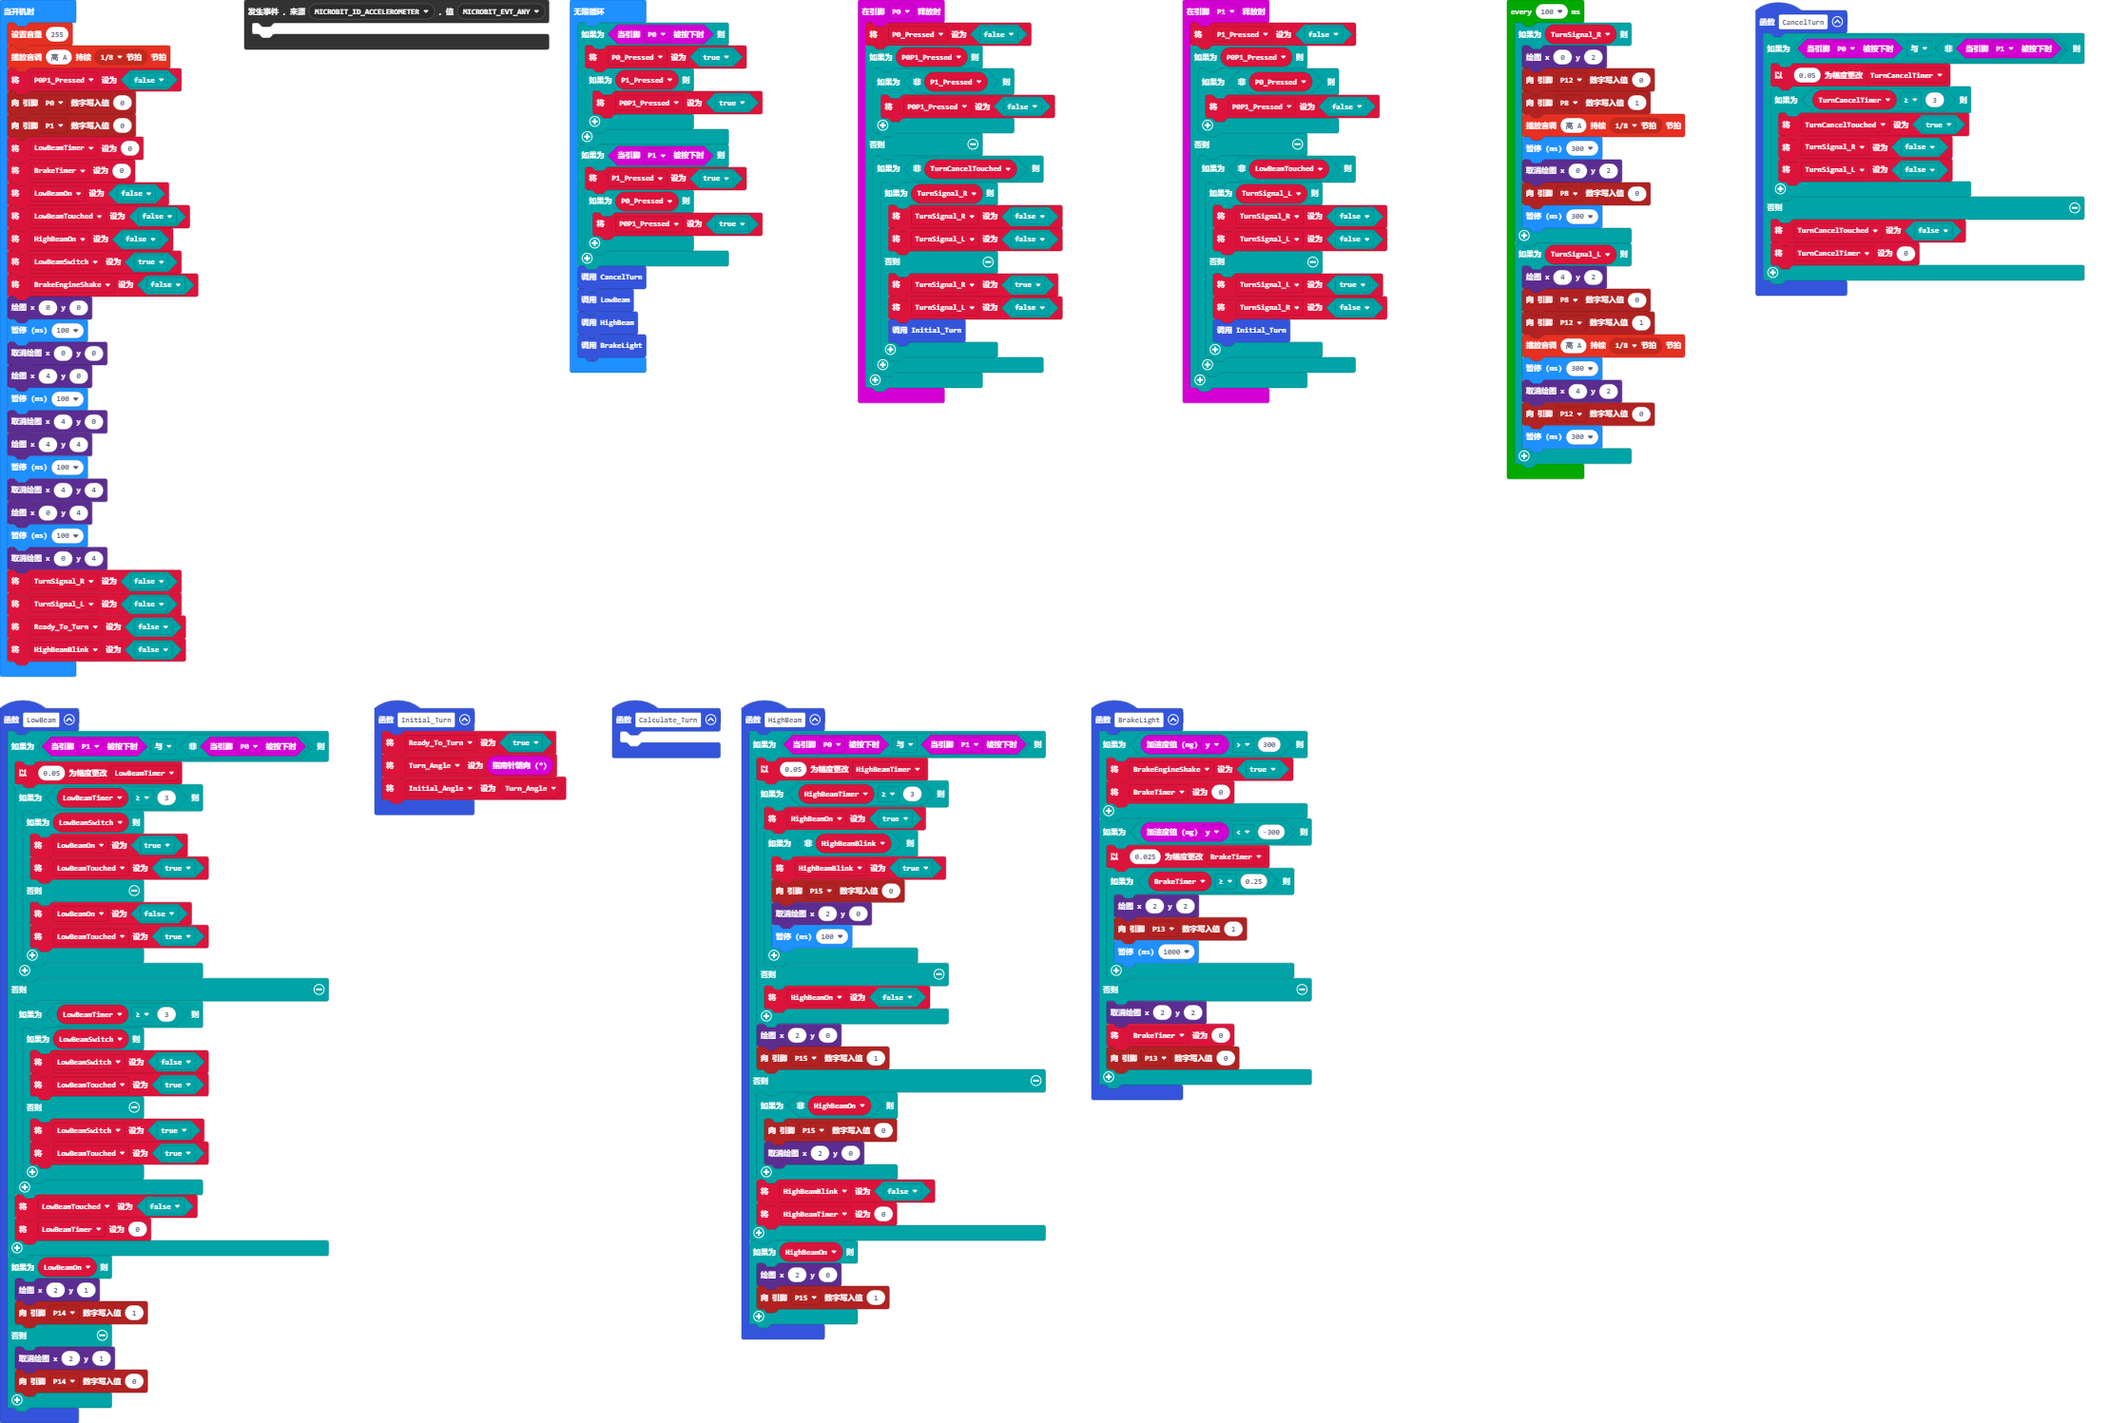
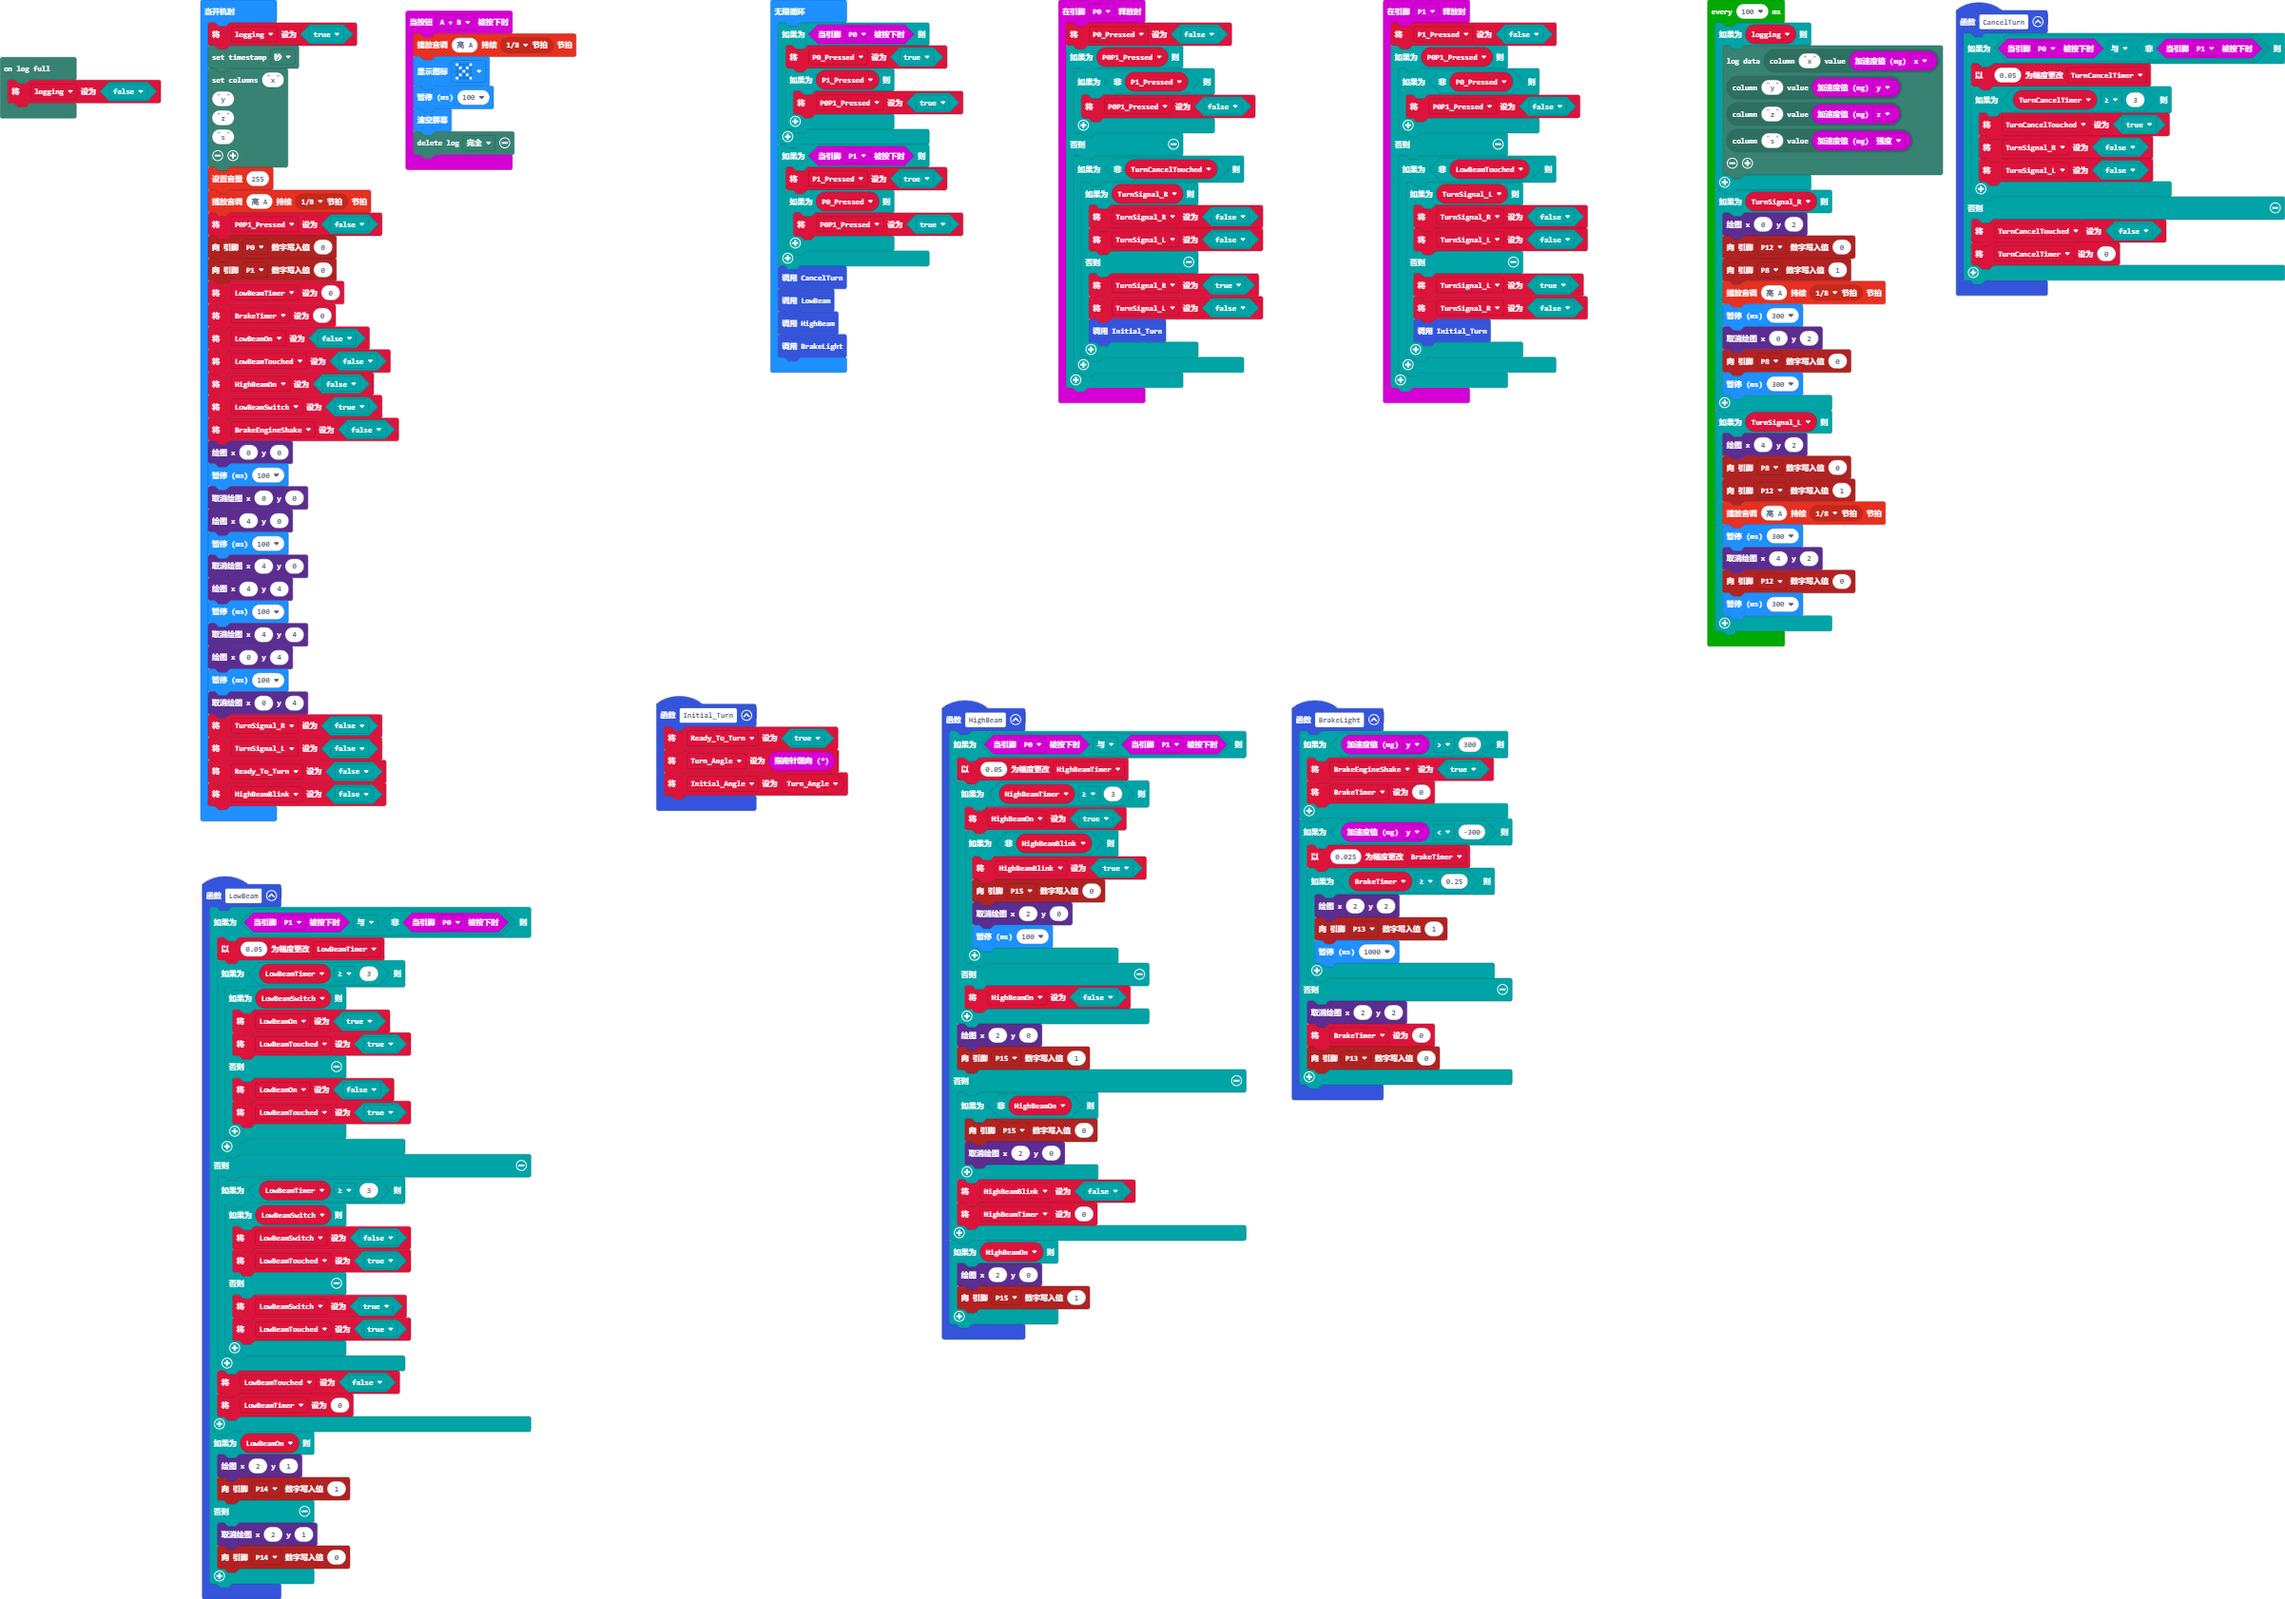
add data logger

diff --git a/main.ts b/main.ts
@@ -1,6 +1,3 @@
-function Calculate_Turn () {
-	
-}
 input.onPinReleased(TouchPin.P0, function () {
     P0_Pressed = false
     if (P0P1_Pressed) {
@@ -66,14 +63,21 @@ function LowBeam () {
         pins.digitalWritePin(DigitalPin.P14, 0)
     }
 }
+datalogger.onLogFull(function () {
+    logging = false
+})
+input.onButtonPressed(Button.AB, function () {
+    music.playTone(880, music.beat(BeatFraction.Eighth))
+    basic.showIcon(IconNames.No)
+    basic.pause(100)
+    basic.clearScreen()
+    datalogger.deleteLog(datalogger.DeleteType.Full)
+})
 function Initial_Turn () {
     Ready_To_Turn = true
     Turn_Angle = input.compassHeading()
     Initial_Angle = Turn_Angle
 }
-control.onEvent(EventBusSource.MICROBIT_ID_ACCELEROMETER, EventBusValue.MICROBIT_EVT_ANY, function () {
-	
-})
 function HighBeam () {
     if (input.pinIsPressed(TouchPin.P0) && input.pinIsPressed(TouchPin.P1)) {
         HighBeamTimer += 0.05
@@ -159,6 +163,15 @@ let LowBeamOn = false
 let BrakeTimer = 0
 let LowBeamTimer = 0
 let P0P1_Pressed = false
+let logging = false
+logging = true
+datalogger.includeTimestamp(FlashLogTimeStampFormat.Seconds)
+datalogger.setColumnTitles(
+"x",
+"y",
+"z",
+"s"
+)
 music.setVolume(255)
 music.playTone(880, music.beat(BeatFraction.Eighth))
 P0P1_Pressed = false
@@ -206,6 +219,14 @@ basic.forever(function () {
     BrakeLight()
 })
 loops.everyInterval(100, function () {
+    if (logging) {
+        datalogger.log(
+        datalogger.createCV("x", input.acceleration(Dimension.X)),
+        datalogger.createCV("y", input.acceleration(Dimension.Y)),
+        datalogger.createCV("z", input.acceleration(Dimension.Z)),
+        datalogger.createCV("s", input.acceleration(Dimension.Strength))
+        )
+    }
     if (TurnSignal_R) {
         led.plot(0, 2)
         pins.digitalWritePin(DigitalPin.P12, 0)
